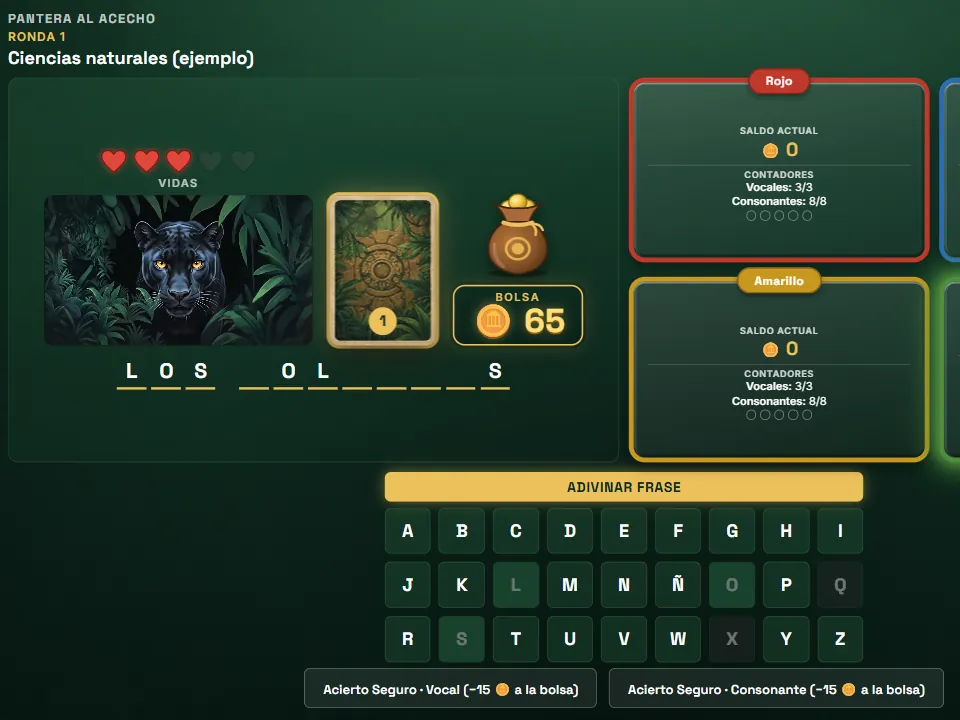
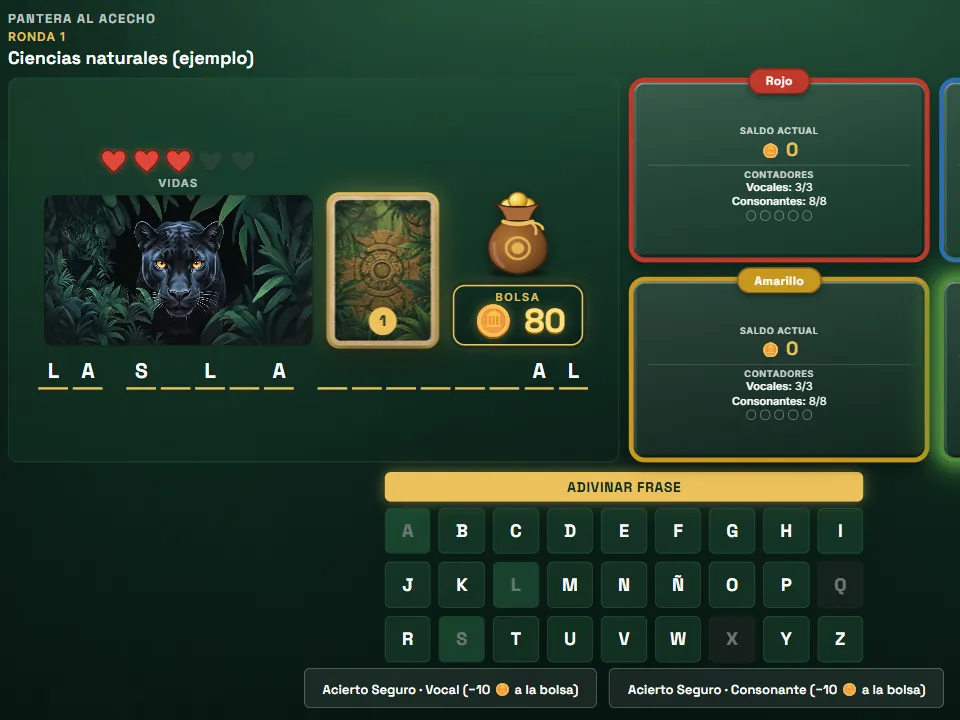
feat: el Acierto Seguro le quita 10 monedas a la bolsa en lugar de 15
La bolsa distingue la resta del Acierto Seguro comparándola con
COSTO_LETRA en lugar de un 15 fijo. Pruebas del motor, requerimientos,
demostración, guía de inicio y su captura del turno actualizadas.

diff --git a/client/src/components/tablero/BolsaTesoro.jsx b/client/src/components/tablero/BolsaTesoro.jsx
@@ -1,4 +1,5 @@
 import { useEffect, useRef, useState } from 'react';
+import { COSTO_LETRA } from '../../motor/constantes.ts';
 import { reproducirSonido } from '../../sonido/gestorSonido.js';
 import { useContadorAnimado, prefiereMenosMovimiento } from './useContadorAnimado.js';
 import { SacoMonedas, Polilla } from './SacoMonedas.jsx';
@@ -9,7 +10,7 @@ const BOLSA_BAJA = 30;
 
 // La bolsa de monedas de la carta en juego (requerimientos.md 3.3).
 // Cae al voltear la carta y su contador sube de 0; cada letra pedida hace
-// saltar monedas (una por −5, tres por el −15 del Acierto Seguro) y la
+// saltar monedas (una por −5, tres por el −10 del Acierto Seguro) y la
 // bolsa se desinfla. Vacía, sale una polilla.
 //
 // entrada: 'caer' al voltear la carta, 'voltear' cuando la bolsa pasa
@@ -39,8 +40,8 @@ export default function BolsaTesoro({ bolsa, bolsaInicial, entrada = 'caer', col
 
     const resta = anterior - bolsa;
     const id = siguienteIdRef.current++;
-    setSaltos((actuales) => [...actuales, { id, resta, monedas: resta >= 15 ? 3 : 1 }]);
-    reproducirSonido(resta >= 15 ? 'monedas' : 'moneda');
+    setSaltos((actuales) => [...actuales, { id, resta, monedas: resta > COSTO_LETRA ? 3 : 1 }]);
+    reproducirSonido(resta > COSTO_LETRA ? 'monedas' : 'moneda');
 
     const timers = [setTimeout(() => setSaltos((actuales) => actuales.filter((s) => s.id !== id)), 1300)];
     if (bolsa === 0) timers.push(setTimeout(() => reproducirSonido('bolsaVacia'), 450));
@@ -76,7 +77,11 @@ export default function BolsaTesoro({ bolsa, bolsaInicial, entrada = 'caer', col
           <span aria-hidden="true">🪙</span> {mostrado}
         </span>
         {saltos.map((salto) => (
-          <span key={salto.id} className={salto.resta >= 15 ? 'bolsa-resta grande' : 'bolsa-resta'} aria-hidden="true">
+          <span
+            key={salto.id}
+            className={salto.resta > COSTO_LETRA ? 'bolsa-resta grande' : 'bolsa-resta'}
+            aria-hidden="true"
+          >
             −{salto.resta}
           </span>
         ))}

diff --git a/client/src/motor/__tests__/reducer.test.js b/client/src/motor/__tests__/reducer.test.js
@@ -191,10 +191,10 @@ describe('COMPRAR_ACIERTO_SEGURO', () => {
     return motorReducer(estado, { type: 'ELEGIR_CARTA', cartaId: 'c1' });
   }
 
-  it('le quita 15 a la bolsa (no al saldo), gasta el intento y revela una letra sin afectar la pantera', () => {
+  it('le quita 10 a la bolsa (no al saldo), gasta el intento y revela una letra sin afectar la pantera', () => {
     const estado = motorReducer(estadoConCasa(), { type: 'COMPRAR_ACIERTO_SEGURO', categoria: 'vocal' });
 
-    expect(estado.mazo.c1.bolsa).toBe(85); // 100 - 15
+    expect(estado.mazo.c1.bolsa).toBe(90); // 100 - 10
     expect(estado.equipos.rojo.saldo).toBe(200);
     expect(estado.equipos.rojo.intentos.vocales).toBe(2);
     expect(estado.equipos.rojo.panteraEstado).toBe(0);
@@ -207,9 +207,9 @@ describe('COMPRAR_ACIERTO_SEGURO', () => {
     expect(() => motorReducer(estado, { type: 'COMPRAR_ACIERTO_SEGURO', categoria: 'vocal' })).toThrow(MotorError);
   });
 
-  it('la consonante también cuesta 15 a la bolsa', () => {
+  it('la consonante también cuesta 10 a la bolsa', () => {
     const estado = motorReducer(estadoConCasa(), { type: 'COMPRAR_ACIERTO_SEGURO', categoria: 'consonante' });
-    expect(estado.mazo.c1.bolsa).toBe(85);
+    expect(estado.mazo.c1.bolsa).toBe(90);
   });
 
   it('se puede comprar aunque el equipo no tenga saldo', () => {
@@ -218,12 +218,12 @@ describe('COMPRAR_ACIERTO_SEGURO', () => {
     estado = motorReducer(estado, { type: 'COMPRAR_ACIERTO_SEGURO', categoria: 'consonante' });
 
     expect(estado.equipos.rojo.saldo).toBe(0);
-    expect(estado.mazo.c1.bolsa).toBe(85);
+    expect(estado.mazo.c1.bolsa).toBe(90);
   });
 
   it('la bolsa no baja de 0', () => {
     let estado = estadoConCasa();
-    estado = { ...estado, mazo: { ...estado.mazo, c1: { ...estado.mazo.c1, bolsa: 10 } } };
+    estado = { ...estado, mazo: { ...estado.mazo, c1: { ...estado.mazo.c1, bolsa: 5 } } };
     estado = motorReducer(estado, { type: 'COMPRAR_ACIERTO_SEGURO', categoria: 'vocal' });
     expect(estado.mazo.c1.bolsa).toBe(0);
   });

diff --git a/client/src/components/tablero/DemoPartidaModal.jsx b/client/src/components/tablero/DemoPartidaModal.jsx
@@ -66,20 +66,20 @@ export const PASOS = [
     equipo: 'rojo',
     frase: 'LA SELVA',
     saldo: 0,
-    bolsa: 45,
+    bolsa: 50,
     aciertos: 'ASL',
     fallos: 'T',
     pantera: 1,
     pedida: 'L',
     tipo: 'compra',
     leyenda:
-      '¿No se te ocurre ninguna? Con Acierto Seguro el juego te da una consonante que sí está, pero la bolsa pierde 15 monedas.',
+      '¿No se te ocurre ninguna? Con Acierto Seguro el juego te da una consonante que sí está, pero la bolsa pierde 10 monedas.',
   },
   {
     equipo: 'rojo',
     frase: 'LA SELVA',
     saldo: 0,
-    bolsa: 45,
+    bolsa: 50,
     aciertos: 'ASL',
     fallos: 'T',
     pantera: 1,
@@ -90,13 +90,13 @@ export const PASOS = [
   {
     equipo: 'rojo',
     frase: 'LA SELVA',
-    saldo: 45,
-    bolsa: 45,
+    saldo: 50,
+    bolsa: 50,
     aciertos: 'ASLEV',
     fallos: 'T',
     pantera: 1,
     efecto: 'victoria',
-    leyenda: '¡Le atinaste! Te llevas lo que quedaba en la bolsa: 45 monedas.',
+    leyenda: '¡Le atinaste! Te llevas lo que quedaba en la bolsa: 50 monedas.',
   },
 
   // Turno perdido

diff --git a/client/src/pages/HomePage.jsx b/client/src/pages/HomePage.jsx
@@ -158,7 +158,7 @@ const MANUAL = [
       'En su turno, el equipo elige una carta boca abajo y tú registras en el tablero lo que declaran en voz alta:',
     puntos: [
       'Pedir una letra: púlsala en el teclado virtual. Cada letra le quita 5 monedas a la bolsa; si no está en la frase, además la pantera avanza y el equipo pierde una vida.',
-      'Acierto Seguro: los botones de vocal / consonante revelan una letra sin arriesgar a la pantera, pero le quitan 15 monedas a la bolsa.',
+      'Acierto Seguro: los botones de vocal / consonante revelan una letra sin arriesgar a la pantera, pero le quitan 10 monedas a la bolsa.',
       'Adivinar Frase: escribe la frase completa que el equipo declara y el sistema la valida. Si acierta, se lleva lo que quede en la bolsa; la escena de victoria espera tu clic para continuar.',
       'A los 5 fallos la pantera ataca: el equipo pierde el turno y el equipo siguiente puede robar la frase con un único intento.',
     ],

diff --git a/client/src/motor/constantes.ts b/client/src/motor/constantes.ts
@@ -22,7 +22,7 @@ export const SALDO_INICIAL = 0;
 export const BOLSA_BASE = 50;
 export const BOLSA_POR_LETRA = 5;
 export const COSTO_LETRA = 5;
-export const COSTO_ACIERTO_SEGURO: Record<Categoria, number> = { vocal: 15, consonante: 15 };
+export const COSTO_ACIERTO_SEGURO: Record<Categoria, number> = { vocal: 10, consonante: 10 };
 
 // Sección 3.2
 export const LIMITES_INTENTOS: Record<Ronda, Intentos> = {

diff --git a/client/src/components/tablero/BolsaTesoro.css b/client/src/components/tablero/BolsaTesoro.css
@@ -120,7 +120,7 @@
     0 0 12px rgba(255, 210, 90, 0.45);
 }
 
-/* "−5" / "−15" que flota desde la placa */
+/* "−5" / "−10" que flota desde la placa */
 .bolsa-resta {
   position: absolute;
   right: -10px;

diff --git a/docs/requerimientos.md b/docs/requerimientos.md
@@ -66,13 +66,13 @@ Los equipos no gastan su saldo: lo que cuesta cada ayuda sale de la bolsa de la 
 | Saldo inicial | 0 monedas |
 | Bolsa de la tarjeta | 50 + 5 por cada letra distinta de la frase |
 | Cada letra pedida al aire (acierte o falle) | −5 a la bolsa |
-| Acierto Seguro (vocal o consonante) | −15 a la bolsa |
+| Acierto Seguro (vocal o consonante) | −10 a la bolsa |
 
 > **Piso en 0:** La bolsa nunca baja de 0. Con la bolsa vacía el equipo puede seguir jugando, pero adivinar ya no le suma monedas.
 
 > **En pantalla:** Al elegir la tarjeta, la bolsa cae junto a ella y cuenta sus monedas. Cada letra pedida le saca monedas con una animación y un sonido; cuando le quedan 30 o menos se pone en rojo y tiembla, y vacía se ve gris con una polilla.
 
-> **Acierto Seguro:** Al usarlo, el sistema elige automáticamente una letra correcta de la categoría elegida que aún no haya sido descubierta, la revela en todos sus espacios, descuenta el intento correspondiente y le quita 15 monedas a la bolsa. No depende del saldo del equipo. Si no quedan letras disponibles de esa categoría en la frase, el botón se inhabilita. Esta mecánica no está disponible en Ronda 2.
+> **Acierto Seguro:** Al usarlo, el sistema elige automáticamente una letra correcta de la categoría elegida que aún no haya sido descubierta, la revela en todos sus espacios, descuenta el intento correspondiente y le quita 10 monedas a la bolsa. No depende del saldo del equipo. Si no quedan letras disponibles de esa categoría en la frase, el botón se inhabilita. Esta mecánica no está disponible en Ronda 2.
 
 ### 3.4 La Pantera al Acecho (Vidas/Errores)
 
